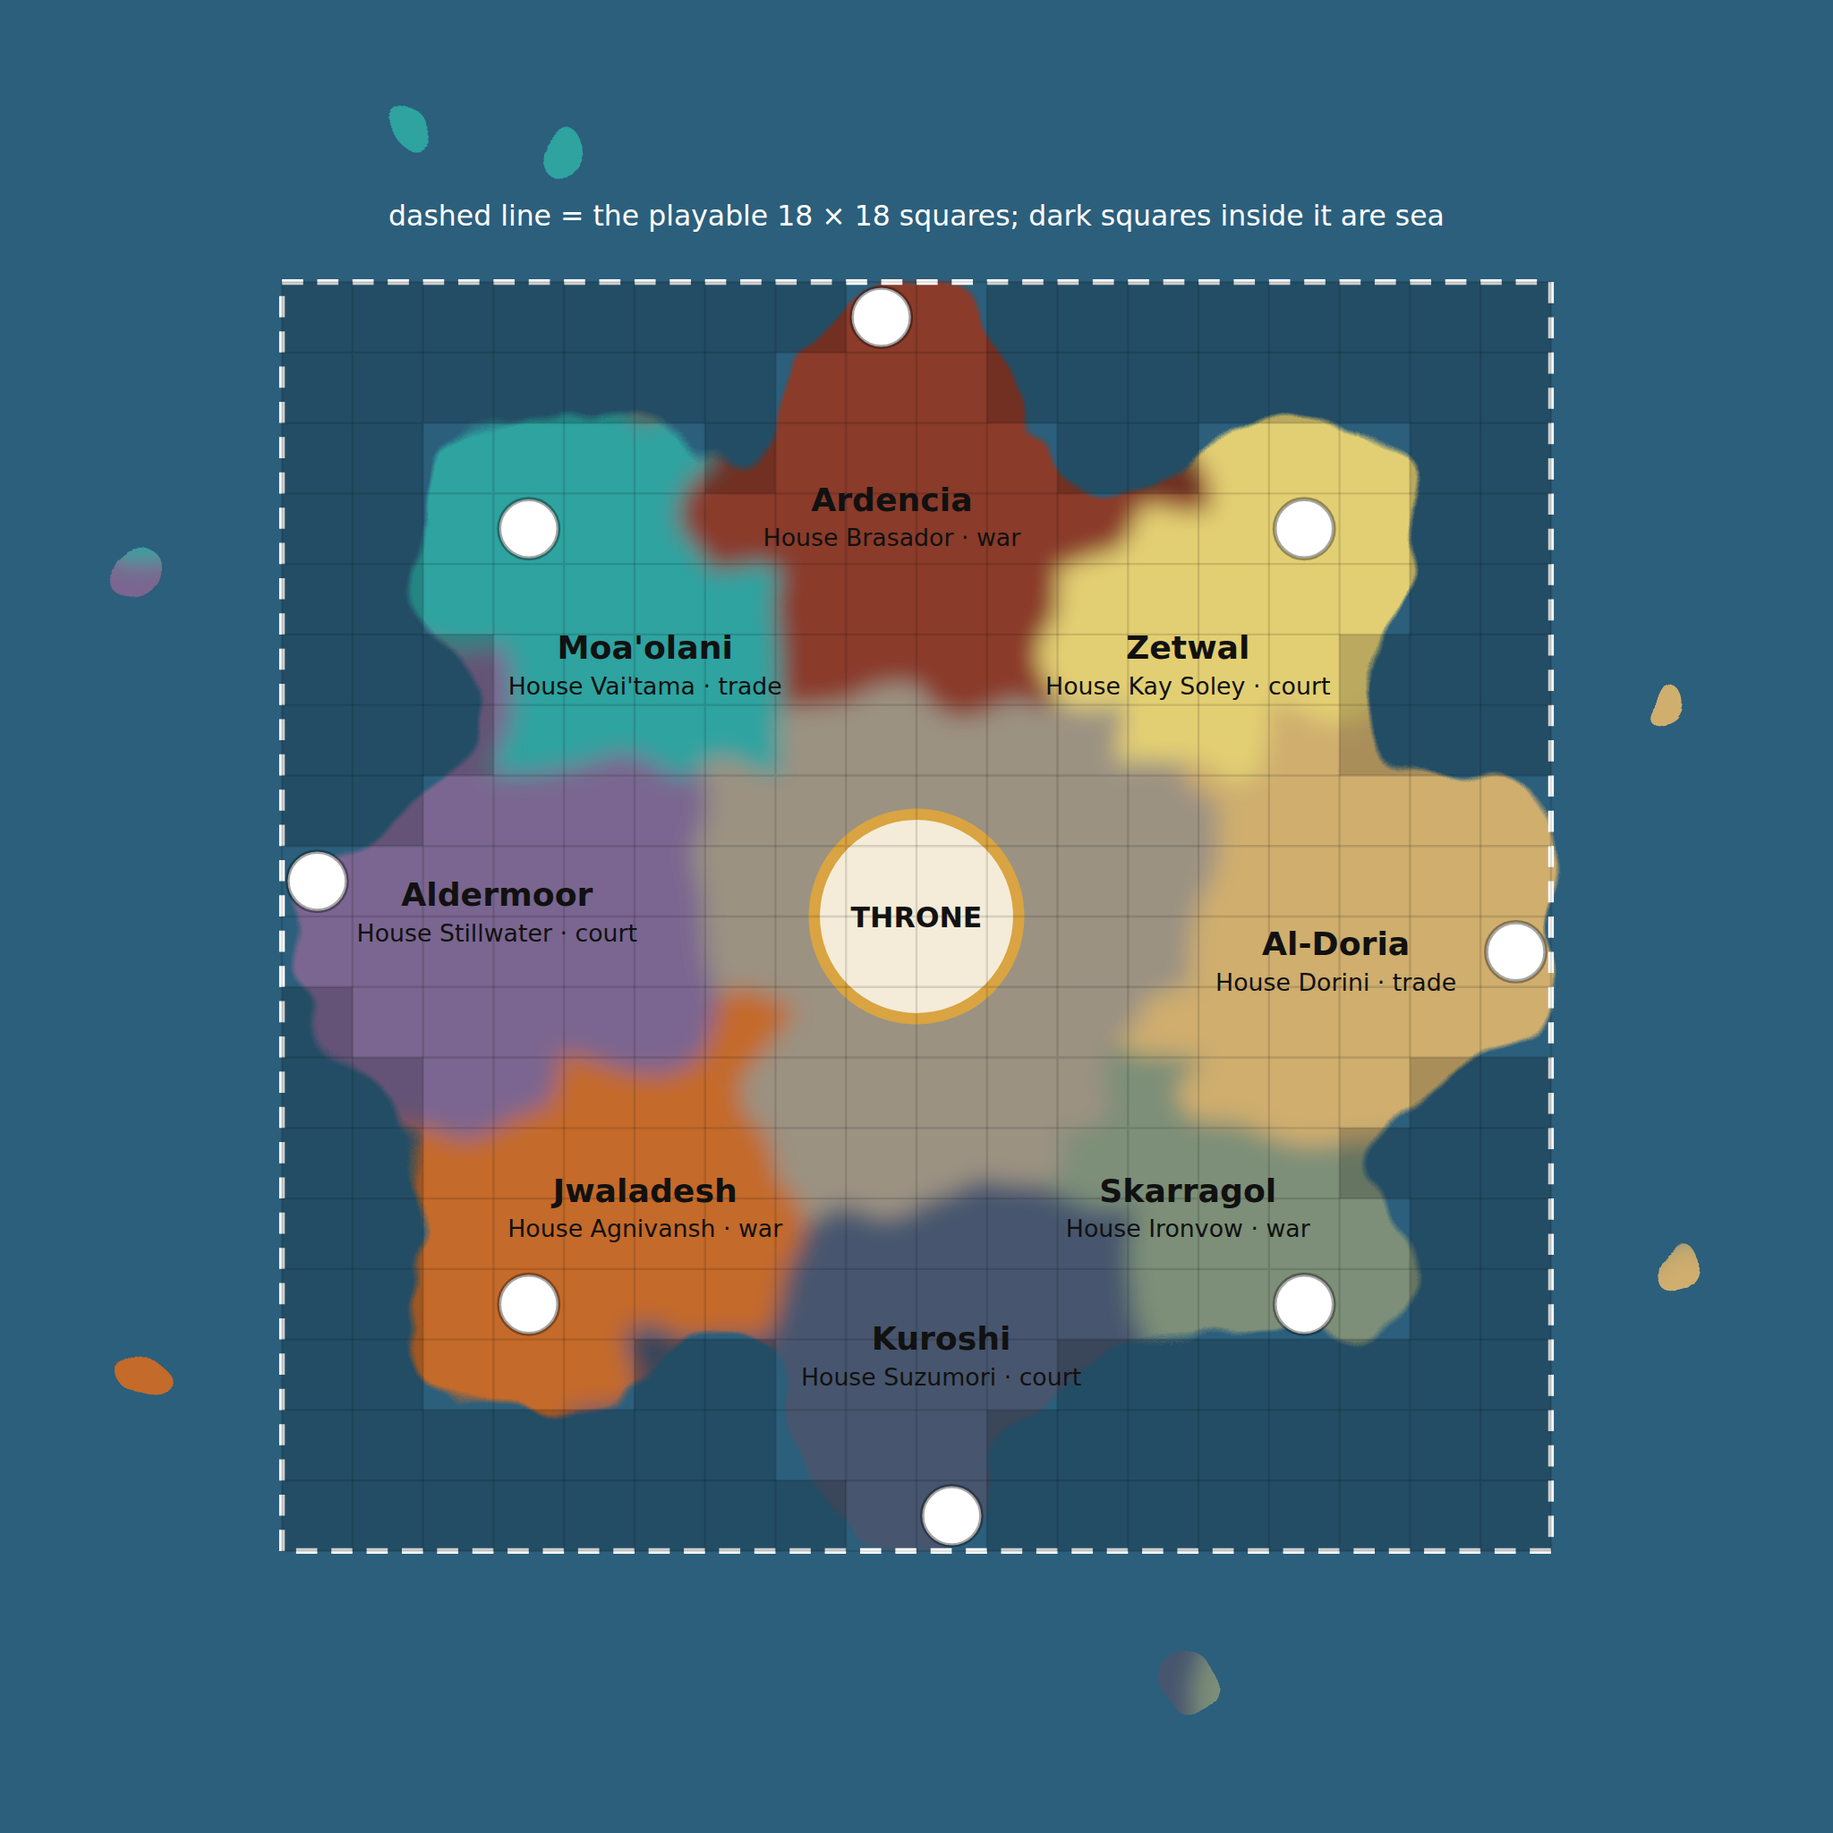
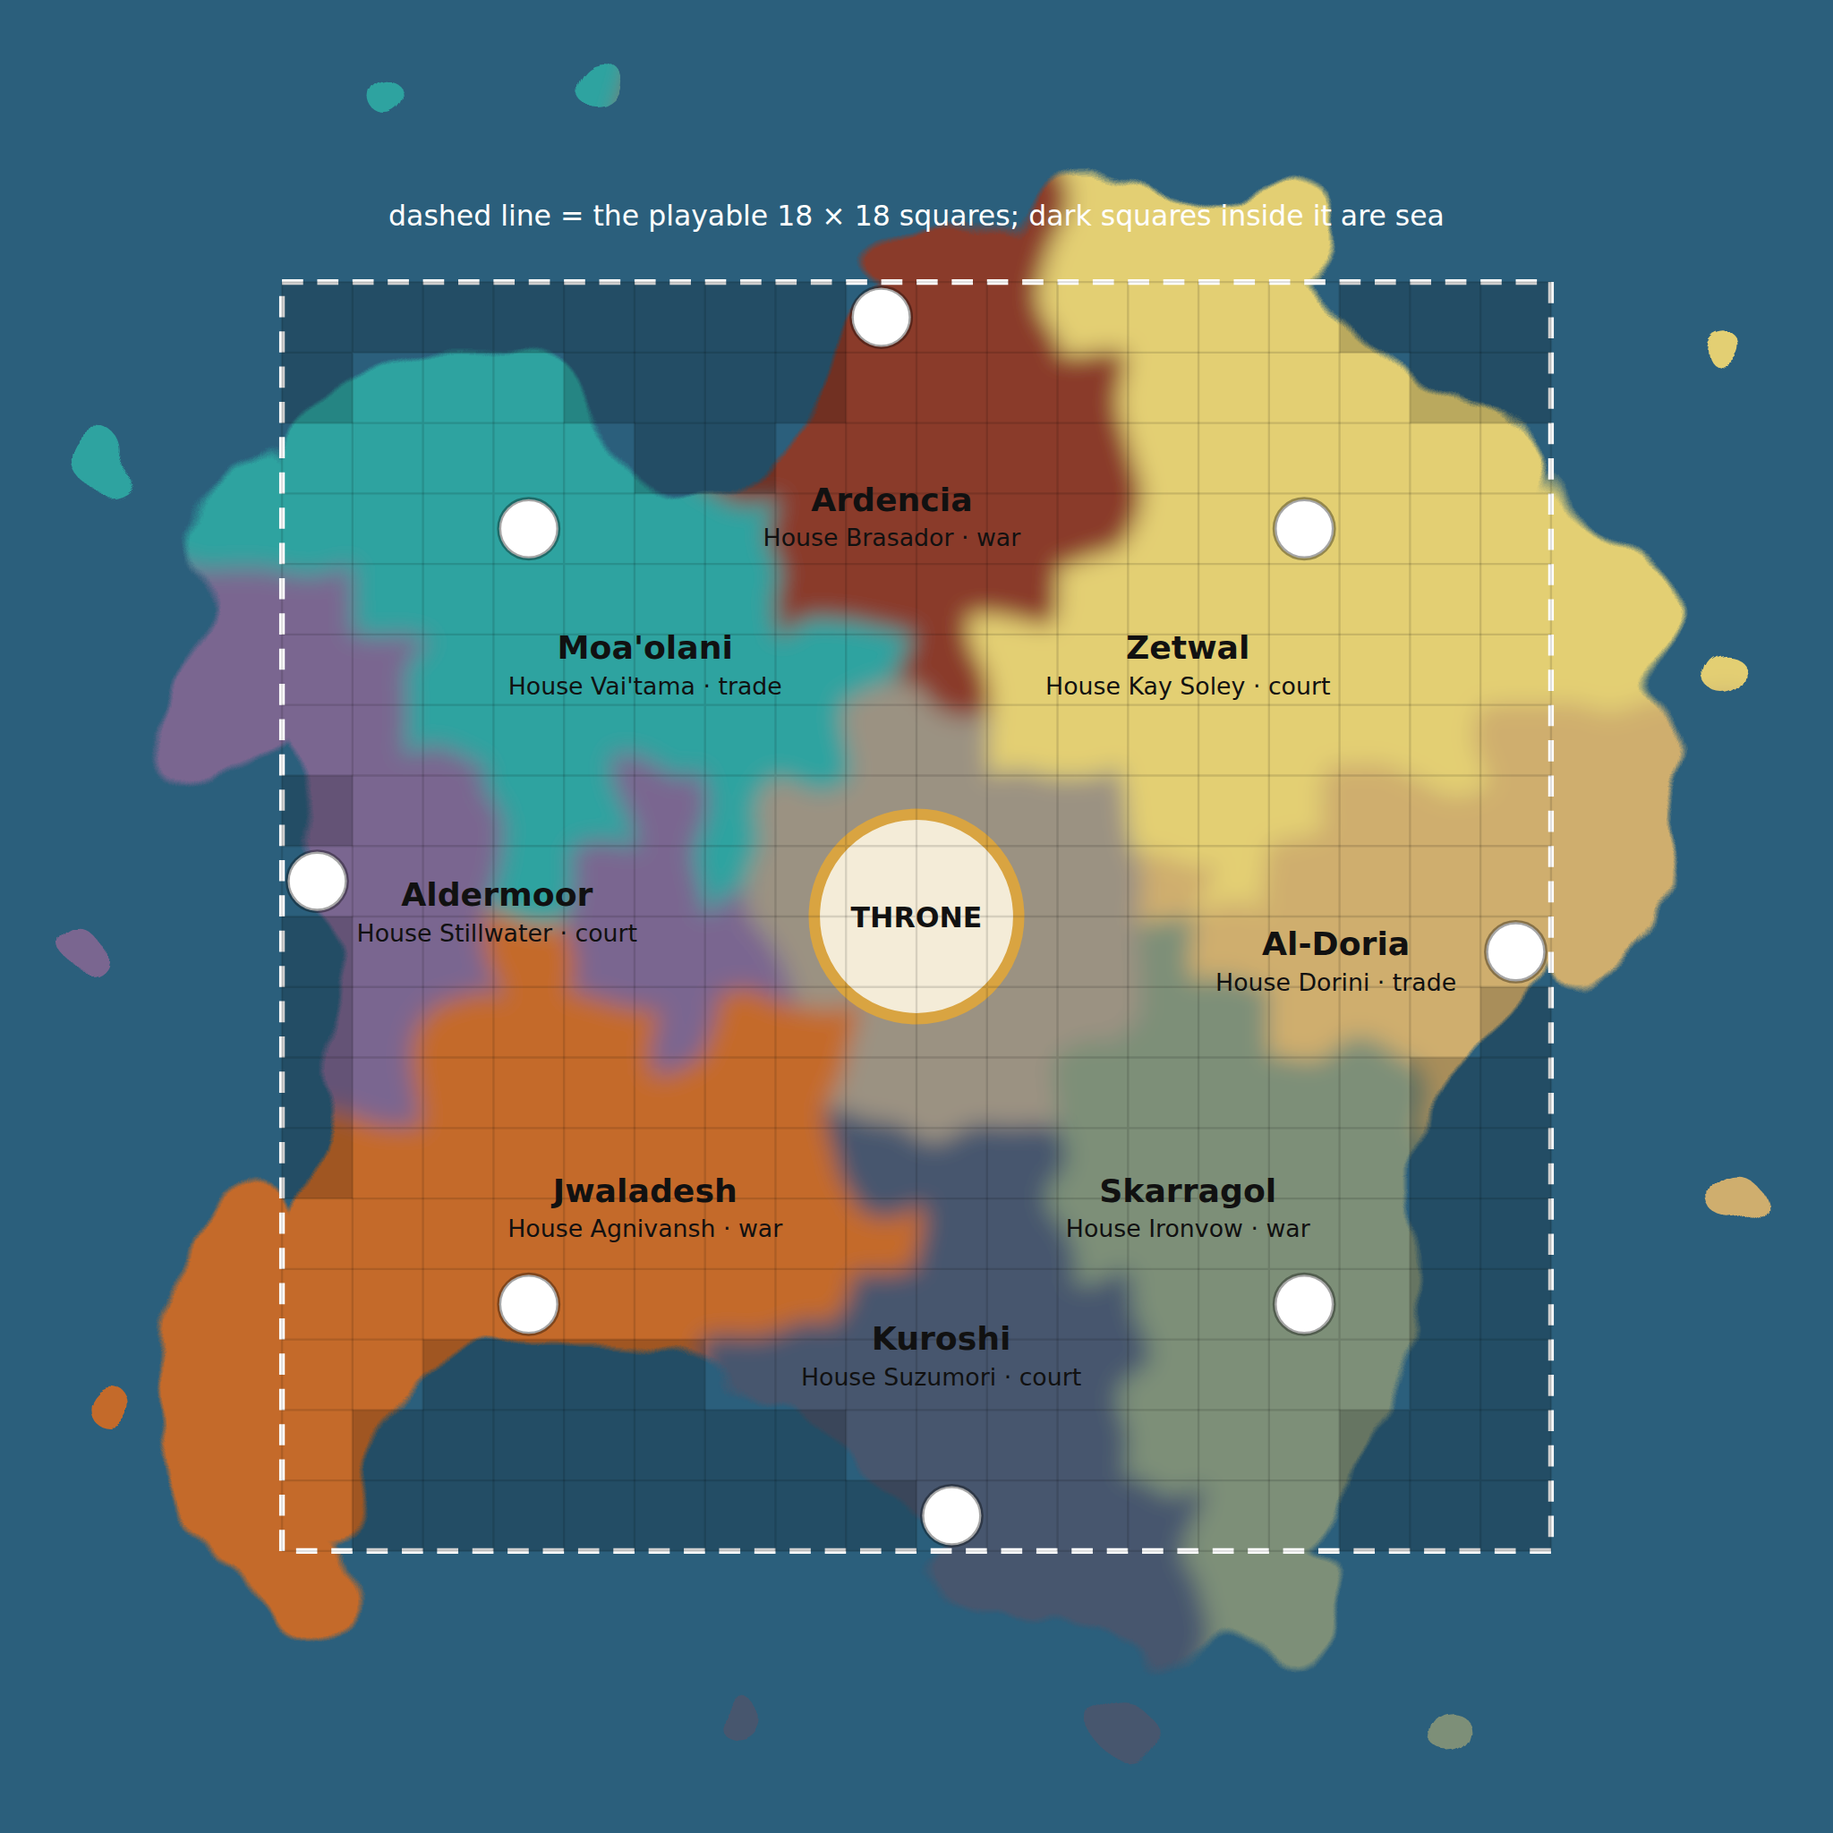
A realistic continent: natural coast, borders on land, living ocean
The bay-per-seat star read as artificial and put water on every border.
The coast is now a realistic outline (61 sea squares, down from 120):
a northern gulf, a long south-western peninsula beside a southern gulf,
and the corners. It was picked from generated coastlines that keep
every seat's distance to the Throne and to every other seat.

Homelands are carved by nearest seat with wandering borders and no size
quota, around a smaller Heartland, so their sizes follow the coast.
The board guide shows coasts bulging past the grid, islands offshore
and no gaps; the art guide's prompt asks for a living ocean (beaches,
reefs, ships, lighthouse, whales) and borders on land.

Simulation: no measurable change in length, endings, deaths or balance.

Claude-Session: https://claude.ai/code/session_01YAnSxFxcnPAhQ8NFJcHZDX

diff --git a/src/ui/terrainSvg.ts b/src/ui/terrainSvg.ts
@@ -26,39 +26,24 @@ function noise(x: number, y: number, scale: number) {
 
 type Region = HouseId | 'heartland' | 'sea';
 
-// Which territory each square belongs to: the homeland whose direction from the Throne is closest,
-// with noise bending the borders. Each homeland's reach is then tuned until all eight are about the
-// same size (a corner-facing wedge of a square board holds more land than an edge-facing one).
+// Which territory each square belongs to: a small Heartland around the Throne, then the nearest homeland,
+// with noise bending the borders so they wander like real ones. Sizes follow the coastline, not a quota.
 export function territories(houses: HouseDef[]): Region[][] {
   const mid = (BOARD_SIZE - 1) / 2;
-  const angle = (x: number, y: number) => Math.atan2(y - mid, x - mid);
-  const reach = new Map<HouseId, number>(houses.map(h => [h.id, 1]));
-  const assign = () => {
-    const grid: Region[][] = [];
-    for (let y = 0; y < BOARD_SIZE; y++) {
-      grid.push([]);
-      for (let x = 0; x < BOARD_SIZE; x++) {
-        const wobble = (noise(x, y, 3.2) - 0.5) * 3.2;
-        if (!inBoard({ x, y })) { grid[y].push('sea'); continue; }
-        if (Math.hypot(x - mid, y - mid) + wobble * 0.6 < 3.4) { grid[y].push('heartland'); continue; }
-        let best: Region = houses[0].id, bestD = Infinity;
-        for (const h of houses) {
-          const turn = Math.abs(((angle(x, y) - angle(h.home.x, h.home.y) + 3 * Math.PI) % (2 * Math.PI)) - Math.PI);
-          const d = turn / reach.get(h.id)! + (noise(x + h.home.x * 7, y + h.home.y * 7, 2.6) - 0.5) * 0.45;
-          if (d < bestD) { bestD = d; best = h.id; }
-        }
-        grid[y].push(best);
+  const grid: Region[][] = [];
+  for (let y = 0; y < BOARD_SIZE; y++) {
+    grid.push([]);
+    for (let x = 0; x < BOARD_SIZE; x++) {
+      if (!inBoard({ x, y })) { grid[y].push('sea'); continue; }
+      const wobble = (noise(x, y, 3.2) - 0.5) * 3.2;
+      if (Math.hypot(x - mid, y - mid) + wobble * 0.6 < 2.7) { grid[y].push('heartland'); continue; }
+      let best: Region = houses[0].id, bestD = Infinity;
+      for (const h of houses) {
+        const d = Math.hypot(x - h.home.x, y - h.home.y) + (noise(x + h.home.x * 7, y + h.home.y * 7, 2.6) - 0.5) * 3.4;
+        if (d < bestD) { bestD = d; best = h.id; }
       }
+      grid[y].push(best);
     }
-    return grid;
-  };
-  let grid = assign();
-  for (let i = 0; i < 40; i++) {
-    const count = new Map<Region, number>();
-    for (const row of grid) for (const r of row) count.set(r, (count.get(r) ?? 0) + 1);
-    const target = (BOARD_SIZE * BOARD_SIZE - (count.get('heartland') ?? 0) - (count.get('sea') ?? 0)) / houses.length;
-    for (const h of houses) reach.set(h.id, reach.get(h.id)! * Math.pow(target / Math.max(1, count.get(h.id) ?? 0), 0.25));
-    grid = assign();
   }
   return grid;
 }

diff --git a/tests/rules.test.ts b/tests/rules.test.ts
@@ -2,7 +2,7 @@ import { describe, it, expect } from 'vitest';
 import { byLabel, drive, newGame } from './helpers';
 import { CARDS } from '../src/data';
 import type { Game } from '../src/engine/game';
-import { THRONE, inBoard, key, manhattan, walkDistances } from '../src/engine/board';
+import { THRONE, inBoard, key, manhattan, step, walkDistances } from '../src/engine/board';
 import { BOARD } from '../src/config';
 import type { Decision, Expiry } from '../src/engine/types';
 
@@ -77,9 +77,14 @@ describe('movement (Section 4)', () => {
     expect(squares.every(q => inBoard(q))).toBe(true);
     const walk = walkDistances(p.pos!);
     expect(squares.every(q => walk.get(key(q))! <= 4)).toBe(true);
-    // Straight moves stop at the shore.
+    // Straight moves stop at the shore: every square along each offered line is land, and the next isn't.
     drive(g.moveStraight(p, 3, { full: true }), d => { seen = d; return 0; });
-    expect(seen!.options.map(o => o.label)).toEqual(['South 3', 'East 1']);   // the cape is 2 squares wide
+    expect(seen!.options.length).toBeGreaterThan(0);
+    for (const o of seen!.options) {
+      const { d, n } = o.value as { d: 'north' | 'south' | 'east' | 'west'; n: number };
+      for (let i = 1; i <= n; i++) expect(inBoard(step(p.pos!, d, i))).toBe(true);
+      if (n < 3) expect(inBoard(step(p.pos!, d, n + 1))).toBe(false);
+    }
   });
   it('the sea leaves every seat on land, as far from the Throne and from each other as before', () => {
     const homes = Object.values(newGame(8).content.houses).map(h => h.home);

diff --git a/src/config.ts b/src/config.ts
@@ -2,28 +2,28 @@
 
 export const BOARD_SIZE = 18;
 // The continent: '.' is land, '~' is sea (row by row, north at the top). Sea squares can't be entered;
-// moves go around them. Every seat keeps its distance to the Throne and to every other seat.
+// moves go around them. The coastline is drawn in docs/art/board-guide-labelled.png. Every seat keeps its distance to the Throne and to every other seat.
 // An object so balance experiments can swap the map (null = all land).
 export const BOARD: { land: string[] | null } = {
   land: [
-    '~~~~~~~~..~~~~~~~~',
-    '~~~~~~~...~~~~~~~~',
-    '~~....~....~~...~~',
-    '~~..............~~',
-    '~~..............~~',
-    '~~~............~~~',
-    '~~~............~~~',
-    '~~................',
+    '~~~~~~~~.......~~~',
+    '~...~~~~........~~',
+    '.....~~...........',
+    '..................',
+    '..................',
     '..................',
     '..................',
     '~.................',
-    '~~..............~~',
-    '~~.............~~~',
-    '~~..............~~',
-    '~~..............~~',
-    '~~...~~....~~~~~~~',
-    '~~~~~~~...~~~~~~~~',
-    '~~~~~~~~..~~~~~~~~',
+    '..................',
+    '~.................',
+    '~................~',
+    '~...............~~',
+    '~...............~~',
+    '................~~',
+    '................~~',
+    '..~~~~..........~~',
+    '.~~~~~~~.......~~~',
+    '.~~~~~~~~......~~~',
   ],
 };
 export const HAND_SIZE = 3;

diff --git a/docs/art/ART-GUIDE.md b/docs/art/ART-GUIDE.md
@@ -107,10 +107,11 @@ In Midjourney, put the avoid list in `--no text, letters, numbers, watermark, si
 - Because the app tilts it, the painting must be a **straight top-down view**: no perspective, no horizon,
   no sides of buildings leaning outward.
 - **The painting is a continent in the ocean.** The 18×18 grid fills the **middle 69%** of the image, with
-  a band 4 squares wide on every side of open sea. The continent has a lobe reaching out to each of the
-  eight seats and deep bays curving in between them; the bays are real sea squares in the rules, so pawns
-  walk around them. The game lines the continent up with the grid and lets the painted ocean fade into its
-  own sea, so nothing at the edge of the board gets cut off.
+  a band 4 squares wide on every side of open sea. It's a realistic continent: a gulf in the north, a long
+  peninsula in the south-west with a gulf beside it, coasts that bulge out past the grid in the north-east,
+  east and south, and islands offshore. Sea inside the grid is real sea in the rules, so pawns walk around
+  it. The game lines the continent up with the grid and lets the painted ocean fade into its own sea, so
+  nothing at the edge of the board gets cut off.
 
 | File | Size | Format | Background |
 |---|---|---|---|
@@ -120,7 +121,8 @@ In Midjourney, put the avoid list in `--no text, letters, numbers, watermark, si
 Attach **`docs/art/board-guide.png`** to the prompt.
 - **Blue:** open ocean. **Follow the guide's coastline closely,** within about half a square: land squares must
   look like land and sea squares like sea. The labelled copy shades the sea squares inside the grid.
-- **Coloured areas:** each is one homeland. Their sizes and soft borders match the game's own map.
+- **Coloured areas:** each is one homeland. They're different sizes, following the coast; borders between
+  them are on land (ridges, rivers, forest edges), never water.
 - **The ring in the middle:** Elodie's Throne. It covers the centre 2×2 squares, about the middle 8% of
   the image.
 - **The 8 white dots:** each house's **seat**, its owned tile. These positions are rules, so the painting
@@ -182,16 +184,18 @@ repaint that spot.
 5. **Keep the centre throne ring and each seat spot open:** a plaza or courtyard, so the markers sit
    cleanly.
 6. **A coastline with character:** headlands, peninsulas, bays and a few islands, like a real continent,
-   never a smooth or straight edge. Ocean, deep and calm, runs all the way to the image edges so it blends
-   into the game's sea.
-7. **Nothing else on the map:** no people, animals larger than tiny herds, clouds over the land, text or
+   never a smooth or straight edge.
+7. **A living ocean:** beaches and surf along the coasts; reefs, rocks and small islands; ships under sail,
+   fishing boats, a lighthouse, a shipwreck, whales or a sea serpent far out. Deep water darkens toward the
+   image edges so it blends into the game's sea.
+8. **Nothing else on the map:** no people, animals larger than tiny herds, clouds over the land, text or
    compass rose.
 
 ### Prompt for ChatGPT (recommended): attach `board-guide.png`
 ```
 Paint a square, straight top-down (orthographic, no perspective, no horizon) fantasy game-board map: one continent made of eight homelands around a central plaza, set in the middle of open ocean.
 
-Use the attached guide image ONLY for layout. The blue is open ocean: paint deep, calm sea all the way to the image edges. Follow the guide's coastline closely: the continent has a lobe of land reaching out toward each of the eight white dots, with deep bays of open sea curving in between them, and open sea in all four corners. Keep every lobe, cape and bay where the guide puts it — land where the guide shows land, sea where it shows sea — and paint the coast itself wild and natural (cliffs, beaches, coves, rocky points, the small offshore islands shown), never a straight or smooth edge. The continent must not look square. Each flat coloured area is one homeland — keep every homeland in the same place and about the same size and shape, with soft, natural, wandering borders (rivers, ridges, forest edges), never drawn lines. Do not copy the guide's flat colours; repaint each area as real terrain. The pale ring in the centre is Elodie's Throne: paint a round plaza of pale marble inlaid with gold filigree rings, with eight old paved roads leading out toward each homeland. Each white dot marks a house's seat: paint an open courtyard or plaza exactly on each dot, on dry land, with that land's signature building right beside it. The four dots on the north, east, south and west sides sit near the coast.
+Use the attached guide image ONLY for layout. The blue is open ocean: paint deep, calm sea all the way to the image edges. Follow the guide's coastline closely — it is a realistic continent: a gulf in the north, a long peninsula in the south-west with a gulf beside it, coasts that bulge out in the north-east, east and south, and small islands offshore. Keep every gulf, peninsula and cape where the guide puts it — land where the guide shows land, sea where it shows sea — and paint the coast itself wild and natural (cliffs, beaches, coves, rocky points), never a straight or smooth edge. The continent must not look square. Make the ocean alive: sandy beaches and surf along the coasts, reefs and rocks, the small islands shown, ships under sail and fishing boats, a lighthouse on a headland, a shipwreck, whales or a sea serpent far out, with the deep water darkening toward the image edges. The borders between homelands are on land — ridges, rivers, forest edges, changes of ground — never water. Each flat coloured area is one homeland — keep every homeland in the same place and about the same size and shape, with soft, natural, wandering borders (rivers, ridges, forest edges), never drawn lines. Do not copy the guide's flat colours; repaint each area as real terrain. The pale ring in the centre is Elodie's Throne: paint a round plaza of pale marble inlaid with gold filigree rings, with eight old paved roads leading out toward each homeland. Each white dot marks a house's seat: paint an open courtyard or plaza exactly on each dot, on dry land, with that land's signature building right beside it. The four dots on the north, east, south and west sides sit near the coast.
 
 Homelands (positions as on the guide):
 - North (deep red area): Ardencia — scorched volcanic highlands, black basalt and rust-red rock, faint glowing lava seams, dry scrub and cork oaks; a walled fortress with terracotta roofs on the north coast cliffs at its seat.

diff --git a/docs/rules-decisions.md b/docs/rules-decisions.md
@@ -21,7 +21,8 @@ differ, **this file wins**. Numbers in brackets refer to the question list.
 - **First player [4]:** random in solo; the host picks in multiplayer.
 
 ## The continent (changed after playtesting)
-- **The board has sea.** 120 of the 324 squares are sea: bays between the homelands and the outer corners.
+- **The board has sea.** 61 of the 324 squares are sea, in a realistic coastline: a gulf in the north, a gulf beside a
+  long south-western peninsula, and the outer corners. Homeland borders are on land; their sizes follow the coast.
   The land map is `BOARD.land` in `src/config.ts`, drawn in `docs/art/board-guide-labelled.png`.
 - Sea squares can't be entered. Free moves count steps around the sea (a square 3 steps away by walking,
   not as the crow flies). Straight-line moves stop at the shore, as at the board edge. Bridge the Gap
